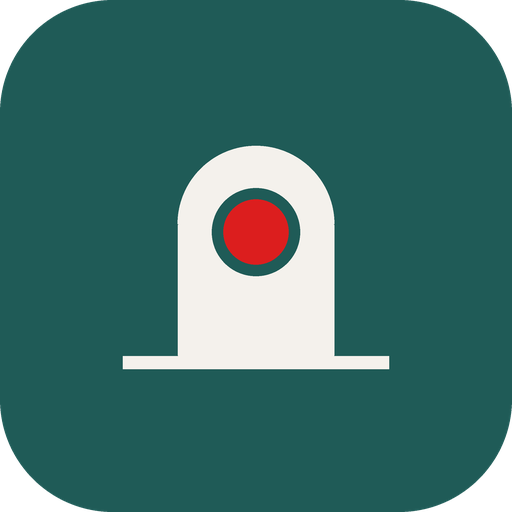
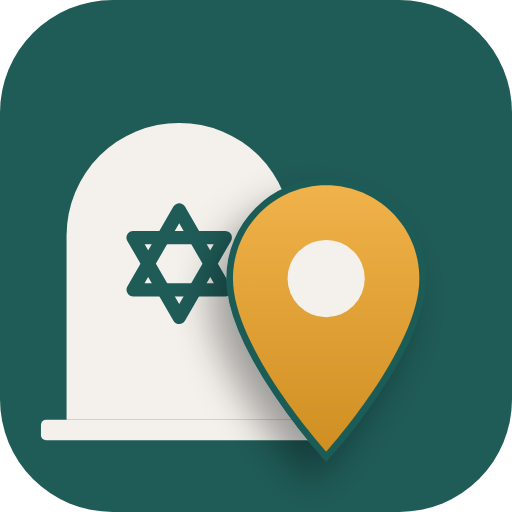
אייקון חדש: מצבה עם מגן דוד וסיכת מיקום זהובה
Claude-Session: https://claude.ai/code/session_01FNzZHT6mYdad93SqtNGpcg

diff --git a/tefilon/index.html b/tefilon/index.html
@@ -2,6 +2,7 @@
 <html lang="he" dir="rtl">
 <head>
 <meta charset="utf-8">
+<link rel="icon" type="image/png" href="/icons/icon-192.png">
 <meta name="viewport" content="width=device-width, initial-scale=1, viewport-fit=cover">
 <title>תפילון – תהלים קי"ט</title>
 <meta name="description" content="פסוקי תהלים קי&quot;ט לפי אותיות שם הנפטר ואותיות נשמה">

diff --git a/index.html b/index.html
@@ -2,6 +2,7 @@
 <html lang="he" dir="rtl">
 <head>
 <meta charset="utf-8">
+<link rel="icon" type="image/png" href="/icons/icon-192.png">
 <meta name="viewport" content="width=device-width, initial-scale=1, viewport-fit=cover">
 <title>Grave Marker – איתור קברים</title>
 <meta name="description" content="איתור קברים וניווט עד הקבר בבית העלמין">

diff --git a/marker/index.html b/marker/index.html
@@ -2,6 +2,7 @@
 <html lang="he" dir="rtl">
 <head>
 <meta charset="utf-8">
+<link rel="icon" type="image/png" href="/icons/icon-192.png">
 <meta name="viewport" content="width=device-width, initial-scale=1, maximum-scale=1">
 <title>סימון חלקות</title>
 <link rel="stylesheet" href="https://cdnjs.cloudflare.com/ajax/libs/leaflet/1.9.4/leaflet.min.css">

diff --git a/sw.js b/sw.js
@@ -1,5 +1,5 @@
 // Grave Marker – עבודה בלי קליטה
-const V='gm-v4';
+const V='gm-v5';
 const SHELL=['/','/index.html','/manifest.webmanifest','/hebcal.js','/icons/icon-192.png','/icons/icon-512.png',
   'https://cdnjs.cloudflare.com/ajax/libs/leaflet/1.9.4/leaflet.min.css',
   'https://cdnjs.cloudflare.com/ajax/libs/leaflet/1.9.4/leaflet.min.js',
